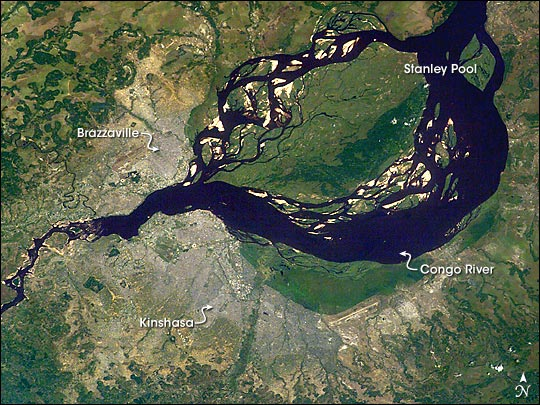
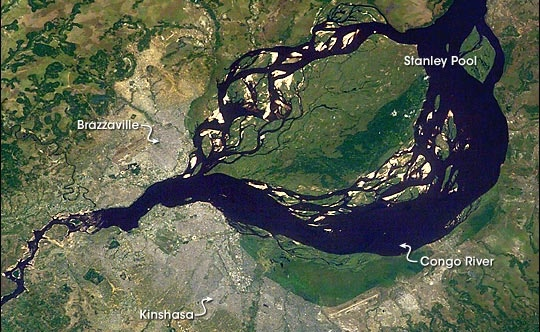
Stack two fiber images in left column of telecom table; commit trimmed brazzaville satellite

diff --git a/index.md b/index.md
@@ -74,7 +74,7 @@ A risk analysis is only as good as its underlying data. Assembling infrastructur
 <th>A typical MTN macro cell tower mast</th>
 </tr>
 <tr>
-<td><img src="images/fiber_optic.jpg" width="100%"/></td>
+<td><img src="images/fiber_optic.jpg" width="100%" style="margin-bottom:3px; border-radius:0;"/><img src="images/fiber_optic_large.png" width="100%"/></td>
 <td><img src="images/mtn_tower.jpg" width="100%"/></td>
 </tr>
 </table>